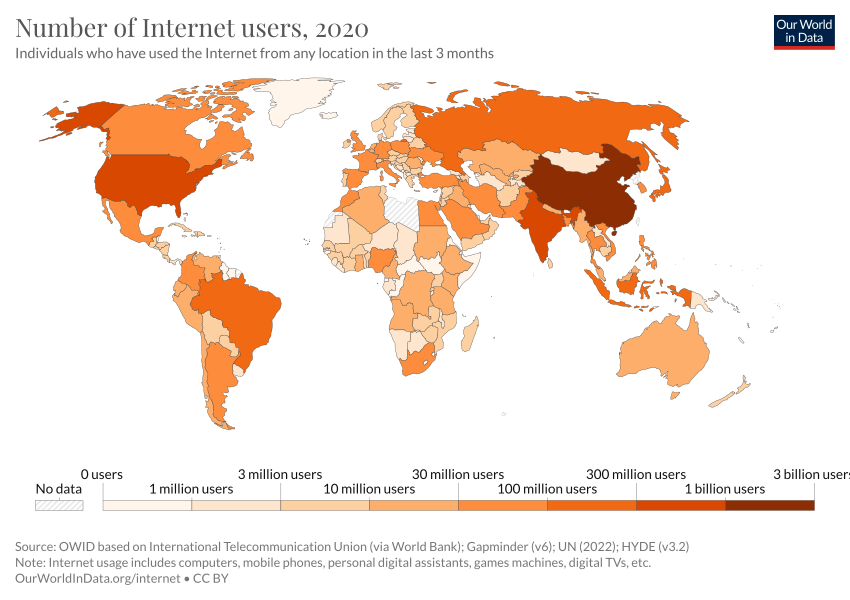
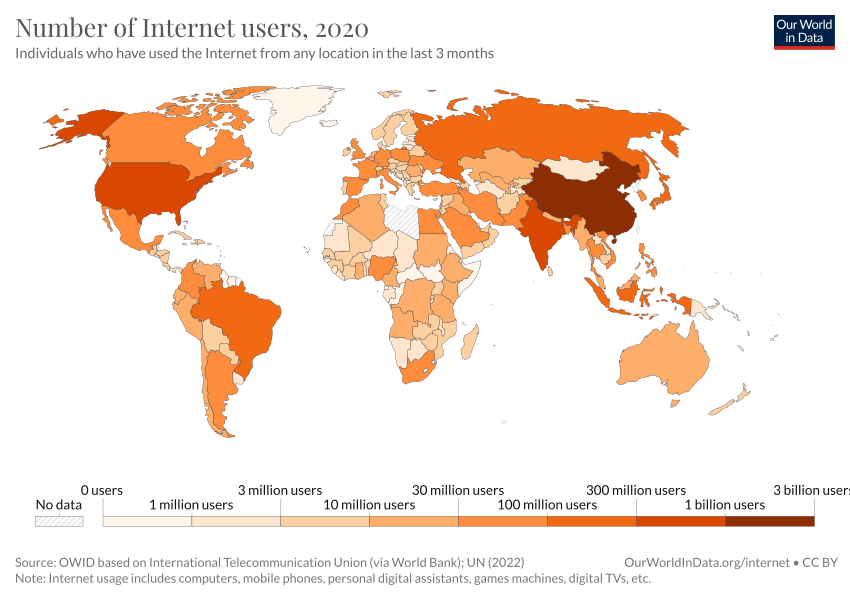
Deploy 2022-10-03T17:13:36.624Z Updating chart number-of-internet-users-by-country

diff --git a/co2-emissions.html b/co2-emissions.html
@@ -1,4 +1,4 @@
-<!doctype html><html><head><meta name="viewport" content="width=device-width, initial-scale=1"/><title>CO2 emissions - Our World in Data</title><meta name="description" content="How much CO2 does the world emit? Which countries emit the most?"/><link rel="canonical" href="https://ourworldindata.org/co2-emissions"/><link rel="alternate" type="application/atom+xml" href="/atom.xml"/><link rel="apple-touch-icon" sizes="180x180" href="/apple-touch-icon.png"/><meta property="fb:app_id" content="1149943818390250"/><meta property="og:url" content="https://ourworldindata.org/co2-emissions"/><meta property="og:title" content="CO2 emissions"/><meta property="og:description" content="How much CO2 does the world emit? Which countries emit the most?"/><meta property="og:image" content="https://ourworldindata.org/uploads/2022/03/Screenshot-2022-03-04-at-16.51.31-768x480.png"/><meta property="og:site_name" content="Our World in Data"/><meta name="twitter:card" content="summary_large_image"/><meta name="twitter:site" content="@OurWorldInData"/><meta name="twitter:creator" content="@OurWorldInData"/><meta name="twitter:title" content="CO2 emissions"/><meta name="twitter:description" content="How much CO2 does the world emit? Which countries emit the most?"/><meta name="twitter:image" content="https://ourworldindata.org/uploads/2022/03/Screenshot-2022-03-04-at-16.51.31-768x480.png"/><link href="https://fonts.googleapis.com/css?family=Lato:300,400,400i,700,700i|Playfair+Display:400,700&amp;display=swap" rel="stylesheet"/><link rel="stylesheet" href="https://ourworldindata.org/assets/commons.css"/><link rel="stylesheet" href="https://ourworldindata.org/assets/owid.css"/><meta name="citation_title" content="CO₂ and Greenhouse Gas Emissions"/><meta name="citation_fulltext_html_url" content="https://ourworldindata.org/co2-and-other-greenhouse-gas-emissions"/><meta name="citation_fulltext_world_readable" content=""/><meta name="citation_publication_date" content="2020/05/11"/><meta name="citation_journal_title" content="Our World in Data"/><meta name="citation_journal_abbrev" content="Our World in Data"/><meta name="citation_author" content="Hannah Ritchie"/><meta name="citation_author" content="Max Roser"/><meta name="citation_author" content="Pablo Rosado"/></head><body class=""><header class="site-header"><div class="wrapper site-navigation-bar"><div class="site-logo"><a href="/">Our World<br/> in Data</a></div><nav class="site-navigation"><div class="topics-button-wrapper"><a href="/#entries" class="topics-button"><div class="label">Articles <br/><strong>by topic</strong></div><div class="icon"><svg width="12" height="6"><path d="M0,0 L12,0 L6,6 Z" fill="currentColor"></path></svg></div></a></div><div><div class="site-primary-navigation"><form class="HeaderSearch" action="/search" method="GET"><input type="search" name="q" placeholder="Search..."/><div class="icon"><svg aria-hidden="true" focusable="false" data-prefix="fas" data-icon="magnifying-glass" class="svg-inline--fa fa-magnifying-glass " role="img" xmlns="http://www.w3.org/2000/svg" viewBox="0 0 512 512"><path fill="currentColor" d="M416 208c0 45.9-14.9 88.3-40 122.7L502.6 457.4c12.5 12.5 12.5 32.8 0 45.3s-32.8 12.5-45.3 0L330.7 376c-34.4 25.2-76.8 40-122.7 40C93.1 416 0 322.9 0 208S93.1 0 208 0S416 93.1 416 208zM208 352c79.5 0 144-64.5 144-144s-64.5-144-144-144S64 128.5 64 208s64.5 144 144 144z"></path></svg></div></form><ul class="site-primary-links"><li><a href="/blog" data-track-note="header-navigation">Latest</a></li><li><a href="/about" data-track-note="header-navigation">About</a></li><li><a href="/donate" data-track-note="header-navigation">Donate</a></li></ul></div><div class="site-secondary-navigation"><ul class="site-secondary-links"><li><a href="/charts" data-track-note="header-navigation">All charts</a></li><li><a href="https://sdg-tracker.org" data-track-note="header-navigation">Sustainable Development Goals Tracker</a></li></ul></div></div></nav><div class="header-logos-wrapper"><a href="https://www.oxfordmartin.ox.ac.uk/global-development" class="oxford-logo"><img src="https://ourworldindata.org/oms-logo.svg" alt="Oxford Martin School logo"/></a><a href="https://global-change-data-lab.org/" class="gcdl-logo"><img src="https://ourworldindata.org/gcdl-logo.svg" alt="Global Change Data Lab logo"/></a></div><div class="mobile-site-navigation"><button data-track-note="mobile-search-button"><svg aria-hidden="true" focusable="false" data-prefix="fas" data-icon="magnifying-glass" class="svg-inline--fa fa-magnifying-glass " role="img" xmlns="http://www.w3.org/2000/svg" viewBox="0 0 512 512"><path fill="currentColor" d="M416 208c0 45.9-14.9 88.3-40 122.7L502.6 457.4c12.5 12.5 12.5 32.8 0 45.3s-32.8 12.5-45.3 0L330.7 376c-34.4 25.2-76.8 40-122.7 40C93.1 416 0 322.9 0 208S93.1 0 208 0S416 93.1 416 208zM208 352c79.5 0 144-64.5 144-144s-64.5-144-144-144S64 128.5 64 208s64.5 144 144 144z"></path></svg></button><button data-track-note="mobile-newsletter-button"><svg aria-hidden="true" focusable="false" data-prefix="fas" data-icon="envelope-open-text" class="svg-inline--fa fa-envelope-open-text " role="img" xmlns="http://www.w3.org/2000/svg" viewBox="0 0 512 512"><path fill="currentColor" d="M215.4 96H144 107.8 96v8.8V144v40.4 89L.2 202.5c1.6-18.1 10.9-34.9 25.7-45.8L48 140.3V96c0-26.5 21.5-48 48-48h76.6l49.9-36.9C232.2 3.9 243.9 0 256 0s23.8 3.9 33.5 11L339.4 48H416c26.5 0 48 21.5 48 48v44.3l22.1 16.4c14.8 10.9 24.1 27.7 25.7 45.8L416 273.4v-89V144 104.8 96H404.2 368 296.6 215.4zM0 448V242.1L217.6 403.3c11.1 8.2 24.6 12.7 38.4 12.7s27.3-4.4 38.4-12.7L512 242.1V448v0c0 35.3-28.7 64-64 64H64c-35.3 0-64-28.7-64-64v0zM176 160H336c8.8 0 16 7.2 16 16s-7.2 16-16 16H176c-8.8 0-16-7.2-16-16s7.2-16 16-16zm0 64H336c8.8 0 16 7.2 16 16s-7.2 16-16 16H176c-8.8 0-16-7.2-16-16s7.2-16 16-16z"></path></svg></button><button data-track-note="mobile-hamburger-button"><svg aria-hidden="true" focusable="false" data-prefix="fas" data-icon="bars" class="svg-inline--fa fa-bars " role="img" xmlns="http://www.w3.org/2000/svg" viewBox="0 0 448 512"><path fill="currentColor" d="M0 96C0 78.3 14.3 64 32 64H416c17.7 0 32 14.3 32 32s-14.3 32-32 32H32C14.3 128 0 113.7 0 96zM0 256c0-17.7 14.3-32 32-32H416c17.7 0 32 14.3 32 32s-14.3 32-32 32H32c-17.7 0-32-14.3-32-32zM448 416c0 17.7-14.3 32-32 32H32c-17.7 0-32-14.3-32-32s14.3-32 32-32H416c17.7 0 32 14.3 32 32z"></path></svg></button></div></div></header><div class="alert-banner"><div class="content"><div class="text"><strong>COVID-19 vaccinations, cases, excess mortality, and much more</strong></div><a href="/coronavirus#explore-the-global-situation" data-track-note="covid-banner-click">Explore our COVID-19 data</a></div></div><main><article class="page with-sidebar large-banner"><div class="offset-header"><header class="article-header"><div class="article-titles"><h1 class="entry-title">CO2 emissions</h1><div class="breadcrumb"><a href="/">Home</a><span class="separator"><svg aria-hidden="true" focusable="false" data-prefix="fas" data-icon="angle-right" class="svg-inline--fa fa-angle-right " role="img" xmlns="http://www.w3.org/2000/svg" viewBox="0 0 320 512"><path fill="currentColor" d="M278.6 233.4c12.5 12.5 12.5 32.8 0 45.3l-160 160c-12.5 12.5-32.8 12.5-45.3 0s-12.5-32.8 0-45.3L210.7 256 73.4 118.6c-12.5-12.5-12.5-32.8 0-45.3s32.8-12.5 45.3 0l160 160z"></path></svg></span><a data-track-note="breadcrumb" href="/co2-and-other-greenhouse-gas-emissions">CO₂ and GHG Emissions</a><span class="separator"><svg aria-hidden="true" focusable="false" data-prefix="fas" data-icon="angle-right" class="svg-inline--fa fa-angle-right " role="img" xmlns="http://www.w3.org/2000/svg" viewBox="0 0 320 512"><path fill="currentColor" d="M278.6 233.4c12.5 12.5 12.5 32.8 0 45.3l-160 160c-12.5 12.5-32.8 12.5-45.3 0s-12.5-32.8 0-45.3L210.7 256 73.4 118.6c-12.5-12.5-12.5-32.8 0-45.3s32.8-12.5 45.3 0l160 160z"></path></svg></span><span>CO₂ emissions</span></div></div><div class="authors-byline"><a href="/team">by Hannah Ritchie and Max Roser</a></div><div class="tools"><a href="#licence"><svg aria-hidden="true" focusable="false" data-prefix="fab" data-icon="creative-commons" class="svg-inline--fa fa-creative-commons " role="img" xmlns="http://www.w3.org/2000/svg" viewBox="0 0 496 512"><path fill="currentColor" d="M245.83 214.87l-33.22 17.28c-9.43-19.58-25.24-19.93-27.46-19.93-22.13 0-33.22 14.61-33.22 43.84 0 23.57 9.21 43.84 33.22 43.84 14.47 0 24.65-7.09 30.57-21.26l30.55 15.5c-6.17 11.51-25.69 38.98-65.1 38.98-22.6 0-73.96-10.32-73.96-77.05 0-58.69 43-77.06 72.63-77.06 30.72-.01 52.7 11.95 65.99 35.86zm143.05 0l-32.78 17.28c-9.5-19.77-25.72-19.93-27.9-19.93-22.14 0-33.22 14.61-33.22 43.84 0 23.55 9.23 43.84 33.22 43.84 14.45 0 24.65-7.09 30.54-21.26l31 15.5c-2.1 3.75-21.39 38.98-65.09 38.98-22.69 0-73.96-9.87-73.96-77.05 0-58.67 42.97-77.06 72.63-77.06 30.71-.01 52.58 11.95 65.56 35.86zM247.56 8.05C104.74 8.05 0 123.11 0 256.05c0 138.49 113.6 248 247.56 248 129.93 0 248.44-100.87 248.44-248 0-137.87-106.62-248-248.44-248zm.87 450.81c-112.54 0-203.7-93.04-203.7-202.81 0-105.42 85.43-203.27 203.72-203.27 112.53 0 202.82 89.46 202.82 203.26-.01 121.69-99.68 202.82-202.84 202.82z"></path></svg>Reuse our work freely</a><a href="#citation"><svg aria-hidden="true" focusable="false" data-prefix="fas" data-icon="book" class="svg-inline--fa fa-book " role="img" xmlns="http://www.w3.org/2000/svg" viewBox="0 0 448 512"><path fill="currentColor" d="M96 0C43 0 0 43 0 96V416c0 53 43 96 96 96H384h32c17.7 0 32-14.3 32-32s-14.3-32-32-32V384c17.7 0 32-14.3 32-32V32c0-17.7-14.3-32-32-32H384 96zm0 384H352v64H96c-17.7 0-32-14.3-32-32s14.3-32 32-32zm32-240c0-8.8 7.2-16 16-16H336c8.8 0 16 7.2 16 16s-7.2 16-16 16H144c-8.8 0-16-7.2-16-16zm16 48H336c8.8 0 16 7.2 16 16s-7.2 16-16 16H144c-8.8 0-16-7.2-16-16s7.2-16 16-16z"></path></svg>Cite this research</a></div></header></div><div class="offset-subnavigation"><div class="site-subnavigation"><div class="site-subnavigation-scroll"><ul class="site-subnavigation-links"><li class="highlight"><a href="/co2-and-other-greenhouse-gas-emissions" data-track-note="co2-subnav-co2-and-ghg-emissions">CO₂ and GHG Emissions<svg aria-hidden="true" focusable="false" data-prefix="fas" data-icon="chevron-left" class="svg-inline--fa fa-chevron-left " role="img" xmlns="http://www.w3.org/2000/svg" viewBox="0 0 384 512"><path fill="currentColor" d="M41.4 233.4c-12.5 12.5-12.5 32.8 0 45.3l192 192c12.5 12.5 32.8 12.5 45.3 0s12.5-32.8 0-45.3L109.3 256 278.6 86.6c12.5-12.5 12.5-32.8 0-45.3s-32.8-12.5-45.3 0l-192 192z"></path></svg></a></li><li class=""><a href="/co2-and-other-greenhouse-gas-emissions#co2-and-greenhouse-gas-emissions-country-profiles" data-track-note="co2-subnav-by-country">By country</a></li><li class=""><a href="/explorers/co2" data-track-note="co2-subnav-co2-data-explorer">Data explorer</a></li><li class="current"><a href="/co2-emissions" data-track-note="co2-subnav-co2-emissions">CO₂ emissions</a></li><li class=""><a href="/emissions-by-fuel" data-track-note="co2-subnav-by-fuel">CO₂ by fuel</a></li><li class=""><a href="/greenhouse-gas-emissions" data-track-note="co2-subnav-ghg-emissions">GHG emissions</a></li><li class=""><a href="/emissions-by-sector" data-track-note="co2-subnav-by-sector">By sector</a></li><li class=""><a href="/atmospheric-concentrations" data-track-note="co2-subnav-atm-concentrations">Atmospheric concentrations</a></li><li class=""><a href="/explorers/climate-change" data-track-note="co2-subnav-climate-impacts">Climate impacts</a></li></ul></div></div></div><div class="content-wrapper"><div class="toc-wrapper"><aside class="entry-sidebar"><nav class="entry-toc"><ul><li><a href="#" data-track-note="toc-header">CO2 emissions</a></li><li class="section"><a href="#global-co2-emissions-from-fossil-fuels" data-track-note="toc-link">Global CO2 emissions from fossil fuels</a></li><li class="subsection"><a href="#global-co2-emissions-from-fossil-fuels-global-co2-emissions-from-fossil-fuels" data-track-note="toc-link">Global CO2 emissions from fossil fuels</a></li><li class="subsection"><a href="#global-co2-emissions-from-fossil-fuels-and-land-use-change" data-track-note="toc-link">Global CO2 emissions from fossil fuels and land use change</a></li><li class="subsection"><a href="#co2-emissions-by-region" data-track-note="toc-link">CO2 emissions by region</a></li><li class="section"><a href="#per-capita-co2-emissions" data-track-note="toc-link">Per capita CO2 emissions</a></li><li class="section"><a href="#annual-co2-emissions" data-track-note="toc-link">Annual CO2 emissions</a></li><li class="section"><a href="#annual-change-in-co2-emissions" data-track-note="toc-link">Annual change in CO2 emissions</a></li><li class="section"><a href="#cumulative-co2-emissions" data-track-note="toc-link">Cumulative CO2 emissions</a></li><li class="section"><a href="#consumption-based-trade-adjusted-emissions" data-track-note="toc-link">Consumption-based (trade-adjusted) emissions</a></li><li class="section"><a href="#decoupling-co2-emissions-from-economic-growth" data-track-note="toc-link">Decoupling CO₂ emissions from economic growth</a></li><li class="section"><a href="#global-inequalities-in-co2-emissions" data-track-note="toc-link">Global inequalities in CO2 emissions</a></li><li class="subsection"><a href="#global-inequalities-by-production" data-track-note="toc-link">Global inequalities by production</a></li><li class="subsection"><a href="#global-inequalities-by-consumption" data-track-note="toc-link">Global inequalities by consumption</a></li><li class="section"><a href="#how-do-we-measure-or-estimate-co2-emissions" data-track-note="toc-link">How do we measure or estimate CO2 emissions?</a></li><li class="section"><a href="#endnotes" data-track-note="toc-link">Endnotes</a></li><li class="section"><a href="#licence" data-track-note="toc-link">Licence</a></li><li class="section"><a href="#citation" data-track-note="toc-link">Citation</a></li></ul></nav><div class="toggle-toc"><button data-track-note="page-toggle-toc" aria-label="Open table of contents"><svg aria-hidden="true" focusable="false" data-prefix="fas" data-icon="bars" class="svg-inline--fa fa-bars " role="img" xmlns="http://www.w3.org/2000/svg" viewBox="0 0 448 512"><path fill="currentColor" d="M0 96C0 78.3 14.3 64 32 64H416c17.7 0 32 14.3 32 32s-14.3 32-32 32H32C14.3 128 0 113.7 0 96zM0 256c0-17.7 14.3-32 32-32H416c17.7 0 32 14.3 32 32s-14.3 32-32 32H32c-17.7 0-32-14.3-32-32zM448 416c0 17.7-14.3 32-32 32H32c-17.7 0-32-14.3-32-32s14.3-32 32-32H416c17.7 0 32 14.3 32 32z"></path></svg><span class="label">Contents</span></button></div></aside></div><div class="offset-content"><div class="content-and-footnotes"><div class="article-content"><section><div class="wp-block-columns is-style-sticky-right"><div class="wp-block-column"><p>You can&nbsp;<strong><a href="https://github.com/owid/co2-data">download</a></strong>&nbsp;our complete <em>Our World in Data</em> CO<sub>2</sub> and Greenhouse Gas Emissions database.</p><hr class="wp-block-separator"><p>Carbon dioxide emissions are the primary driver of global climate change. It’s widely recognised that to avoid the worst impacts of climate change, the world needs to urgently reduce emissions. But, how this responsibility is shared between regions, countries, and individuals has been an endless point of contention in international discussions. </p><p>This debate arises from the various ways in which emissions are compared: as annual emissions by country; emissions per person; historical contributions; and whether they adjust for traded goods and services. These metrics can tell very different stories. </p><p>We teamed up with the YouTube channel, <em>Kurzgesagt</em>, to produce a video which explored these different metrics in detail: <a href="https://www.youtube.com/watch?v=ipVxxxqwBQw">‘Who is responsible for climate change? – Who needs to fix it?’</a>. All of the data and research featured in this video is contained in this article: below we look in detail at the many ways emissions are broken down.</p><div class="wp-container-633b1366e417e wp-block-group">    <div class="block-wrapper"><div class="wp-block-owid-prominent-link with-image" data-no-lightbox="true" data-style="is-style-thin" data-title="&nbsp;‘Who is responsible for climate change? – Who needs to fix it?’"><a href="https://www.youtube.com/watch?v=ipVxxxqwBQw"><figure><img width="768" height="433" src="https://ourworldindata.org/uploads/2020/06/CO2-Kurzgesagt-768x433.png" class="attachment-medium_large size-medium_large" alt="Co2 kurzgesagt" loading="lazy" srcset="https://ourworldindata.org/uploads/2020/06/CO2-Kurzgesagt-768x433.png 768w, https://ourworldindata.org/uploads/2020/06/CO2-Kurzgesagt-400x225.png 400w, https://ourworldindata.org/uploads/2020/06/CO2-Kurzgesagt-800x451.png 800w, https://ourworldindata.org/uploads/2020/06/CO2-Kurzgesagt-150x84.png 150w, https://ourworldindata.org/uploads/2020/06/CO2-Kurzgesagt.png 1422w" sizes="(max-width: 768px) 100vw, 768px" data-high-res-src="https://ourworldindata.org/uploads/2020/06/CO2-Kurzgesagt.png"></figure><div class="content-wrapper"><div class="content">
+<!doctype html><html><head><meta name="viewport" content="width=device-width, initial-scale=1"/><title>CO2 emissions - Our World in Data</title><meta name="description" content="How much CO2 does the world emit? Which countries emit the most?"/><link rel="canonical" href="https://ourworldindata.org/co2-emissions"/><link rel="alternate" type="application/atom+xml" href="/atom.xml"/><link rel="apple-touch-icon" sizes="180x180" href="/apple-touch-icon.png"/><meta property="fb:app_id" content="1149943818390250"/><meta property="og:url" content="https://ourworldindata.org/co2-emissions"/><meta property="og:title" content="CO2 emissions"/><meta property="og:description" content="How much CO2 does the world emit? Which countries emit the most?"/><meta property="og:image" content="https://ourworldindata.org/uploads/2022/03/Screenshot-2022-03-04-at-16.51.31-768x480.png"/><meta property="og:site_name" content="Our World in Data"/><meta name="twitter:card" content="summary_large_image"/><meta name="twitter:site" content="@OurWorldInData"/><meta name="twitter:creator" content="@OurWorldInData"/><meta name="twitter:title" content="CO2 emissions"/><meta name="twitter:description" content="How much CO2 does the world emit? Which countries emit the most?"/><meta name="twitter:image" content="https://ourworldindata.org/uploads/2022/03/Screenshot-2022-03-04-at-16.51.31-768x480.png"/><link href="https://fonts.googleapis.com/css?family=Lato:300,400,400i,700,700i|Playfair+Display:400,700&amp;display=swap" rel="stylesheet"/><link rel="stylesheet" href="https://ourworldindata.org/assets/commons.css"/><link rel="stylesheet" href="https://ourworldindata.org/assets/owid.css"/><meta name="citation_title" content="CO₂ and Greenhouse Gas Emissions"/><meta name="citation_fulltext_html_url" content="https://ourworldindata.org/co2-and-other-greenhouse-gas-emissions"/><meta name="citation_fulltext_world_readable" content=""/><meta name="citation_publication_date" content="2020/05/11"/><meta name="citation_journal_title" content="Our World in Data"/><meta name="citation_journal_abbrev" content="Our World in Data"/><meta name="citation_author" content="Hannah Ritchie"/><meta name="citation_author" content="Max Roser"/><meta name="citation_author" content="Pablo Rosado"/></head><body class=""><header class="site-header"><div class="wrapper site-navigation-bar"><div class="site-logo"><a href="/">Our World<br/> in Data</a></div><nav class="site-navigation"><div class="topics-button-wrapper"><a href="/#entries" class="topics-button"><div class="label">Articles <br/><strong>by topic</strong></div><div class="icon"><svg width="12" height="6"><path d="M0,0 L12,0 L6,6 Z" fill="currentColor"></path></svg></div></a></div><div><div class="site-primary-navigation"><form class="HeaderSearch" action="/search" method="GET"><input type="search" name="q" placeholder="Search..."/><div class="icon"><svg aria-hidden="true" focusable="false" data-prefix="fas" data-icon="magnifying-glass" class="svg-inline--fa fa-magnifying-glass " role="img" xmlns="http://www.w3.org/2000/svg" viewBox="0 0 512 512"><path fill="currentColor" d="M416 208c0 45.9-14.9 88.3-40 122.7L502.6 457.4c12.5 12.5 12.5 32.8 0 45.3s-32.8 12.5-45.3 0L330.7 376c-34.4 25.2-76.8 40-122.7 40C93.1 416 0 322.9 0 208S93.1 0 208 0S416 93.1 416 208zM208 352c79.5 0 144-64.5 144-144s-64.5-144-144-144S64 128.5 64 208s64.5 144 144 144z"></path></svg></div></form><ul class="site-primary-links"><li><a href="/blog" data-track-note="header-navigation">Latest</a></li><li><a href="/about" data-track-note="header-navigation">About</a></li><li><a href="/donate" data-track-note="header-navigation">Donate</a></li></ul></div><div class="site-secondary-navigation"><ul class="site-secondary-links"><li><a href="/charts" data-track-note="header-navigation">All charts</a></li><li><a href="https://sdg-tracker.org" data-track-note="header-navigation">Sustainable Development Goals Tracker</a></li></ul></div></div></nav><div class="header-logos-wrapper"><a href="https://www.oxfordmartin.ox.ac.uk/global-development" class="oxford-logo"><img src="https://ourworldindata.org/oms-logo.svg" alt="Oxford Martin School logo"/></a><a href="https://global-change-data-lab.org/" class="gcdl-logo"><img src="https://ourworldindata.org/gcdl-logo.svg" alt="Global Change Data Lab logo"/></a></div><div class="mobile-site-navigation"><button data-track-note="mobile-search-button"><svg aria-hidden="true" focusable="false" data-prefix="fas" data-icon="magnifying-glass" class="svg-inline--fa fa-magnifying-glass " role="img" xmlns="http://www.w3.org/2000/svg" viewBox="0 0 512 512"><path fill="currentColor" d="M416 208c0 45.9-14.9 88.3-40 122.7L502.6 457.4c12.5 12.5 12.5 32.8 0 45.3s-32.8 12.5-45.3 0L330.7 376c-34.4 25.2-76.8 40-122.7 40C93.1 416 0 322.9 0 208S93.1 0 208 0S416 93.1 416 208zM208 352c79.5 0 144-64.5 144-144s-64.5-144-144-144S64 128.5 64 208s64.5 144 144 144z"></path></svg></button><button data-track-note="mobile-newsletter-button"><svg aria-hidden="true" focusable="false" data-prefix="fas" data-icon="envelope-open-text" class="svg-inline--fa fa-envelope-open-text " role="img" xmlns="http://www.w3.org/2000/svg" viewBox="0 0 512 512"><path fill="currentColor" d="M215.4 96H144 107.8 96v8.8V144v40.4 89L.2 202.5c1.6-18.1 10.9-34.9 25.7-45.8L48 140.3V96c0-26.5 21.5-48 48-48h76.6l49.9-36.9C232.2 3.9 243.9 0 256 0s23.8 3.9 33.5 11L339.4 48H416c26.5 0 48 21.5 48 48v44.3l22.1 16.4c14.8 10.9 24.1 27.7 25.7 45.8L416 273.4v-89V144 104.8 96H404.2 368 296.6 215.4zM0 448V242.1L217.6 403.3c11.1 8.2 24.6 12.7 38.4 12.7s27.3-4.4 38.4-12.7L512 242.1V448v0c0 35.3-28.7 64-64 64H64c-35.3 0-64-28.7-64-64v0zM176 160H336c8.8 0 16 7.2 16 16s-7.2 16-16 16H176c-8.8 0-16-7.2-16-16s7.2-16 16-16zm0 64H336c8.8 0 16 7.2 16 16s-7.2 16-16 16H176c-8.8 0-16-7.2-16-16s7.2-16 16-16z"></path></svg></button><button data-track-note="mobile-hamburger-button"><svg aria-hidden="true" focusable="false" data-prefix="fas" data-icon="bars" class="svg-inline--fa fa-bars " role="img" xmlns="http://www.w3.org/2000/svg" viewBox="0 0 448 512"><path fill="currentColor" d="M0 96C0 78.3 14.3 64 32 64H416c17.7 0 32 14.3 32 32s-14.3 32-32 32H32C14.3 128 0 113.7 0 96zM0 256c0-17.7 14.3-32 32-32H416c17.7 0 32 14.3 32 32s-14.3 32-32 32H32c-17.7 0-32-14.3-32-32zM448 416c0 17.7-14.3 32-32 32H32c-17.7 0-32-14.3-32-32s14.3-32 32-32H416c17.7 0 32 14.3 32 32z"></path></svg></button></div></div></header><div class="alert-banner"><div class="content"><div class="text"><strong>COVID-19 vaccinations, cases, excess mortality, and much more</strong></div><a href="/coronavirus#explore-the-global-situation" data-track-note="covid-banner-click">Explore our COVID-19 data</a></div></div><main><article class="page with-sidebar large-banner"><div class="offset-header"><header class="article-header"><div class="article-titles"><h1 class="entry-title">CO2 emissions</h1><div class="breadcrumb"><a href="/">Home</a><span class="separator"><svg aria-hidden="true" focusable="false" data-prefix="fas" data-icon="angle-right" class="svg-inline--fa fa-angle-right " role="img" xmlns="http://www.w3.org/2000/svg" viewBox="0 0 320 512"><path fill="currentColor" d="M278.6 233.4c12.5 12.5 12.5 32.8 0 45.3l-160 160c-12.5 12.5-32.8 12.5-45.3 0s-12.5-32.8 0-45.3L210.7 256 73.4 118.6c-12.5-12.5-12.5-32.8 0-45.3s32.8-12.5 45.3 0l160 160z"></path></svg></span><a data-track-note="breadcrumb" href="/co2-and-other-greenhouse-gas-emissions">CO₂ and GHG Emissions</a><span class="separator"><svg aria-hidden="true" focusable="false" data-prefix="fas" data-icon="angle-right" class="svg-inline--fa fa-angle-right " role="img" xmlns="http://www.w3.org/2000/svg" viewBox="0 0 320 512"><path fill="currentColor" d="M278.6 233.4c12.5 12.5 12.5 32.8 0 45.3l-160 160c-12.5 12.5-32.8 12.5-45.3 0s-12.5-32.8 0-45.3L210.7 256 73.4 118.6c-12.5-12.5-12.5-32.8 0-45.3s32.8-12.5 45.3 0l160 160z"></path></svg></span><span>CO₂ emissions</span></div></div><div class="authors-byline"><a href="/team">by Hannah Ritchie and Max Roser</a></div><div class="tools"><a href="#licence"><svg aria-hidden="true" focusable="false" data-prefix="fab" data-icon="creative-commons" class="svg-inline--fa fa-creative-commons " role="img" xmlns="http://www.w3.org/2000/svg" viewBox="0 0 496 512"><path fill="currentColor" d="M245.83 214.87l-33.22 17.28c-9.43-19.58-25.24-19.93-27.46-19.93-22.13 0-33.22 14.61-33.22 43.84 0 23.57 9.21 43.84 33.22 43.84 14.47 0 24.65-7.09 30.57-21.26l30.55 15.5c-6.17 11.51-25.69 38.98-65.1 38.98-22.6 0-73.96-10.32-73.96-77.05 0-58.69 43-77.06 72.63-77.06 30.72-.01 52.7 11.95 65.99 35.86zm143.05 0l-32.78 17.28c-9.5-19.77-25.72-19.93-27.9-19.93-22.14 0-33.22 14.61-33.22 43.84 0 23.55 9.23 43.84 33.22 43.84 14.45 0 24.65-7.09 30.54-21.26l31 15.5c-2.1 3.75-21.39 38.98-65.09 38.98-22.69 0-73.96-9.87-73.96-77.05 0-58.67 42.97-77.06 72.63-77.06 30.71-.01 52.58 11.95 65.56 35.86zM247.56 8.05C104.74 8.05 0 123.11 0 256.05c0 138.49 113.6 248 247.56 248 129.93 0 248.44-100.87 248.44-248 0-137.87-106.62-248-248.44-248zm.87 450.81c-112.54 0-203.7-93.04-203.7-202.81 0-105.42 85.43-203.27 203.72-203.27 112.53 0 202.82 89.46 202.82 203.26-.01 121.69-99.68 202.82-202.84 202.82z"></path></svg>Reuse our work freely</a><a href="#citation"><svg aria-hidden="true" focusable="false" data-prefix="fas" data-icon="book" class="svg-inline--fa fa-book " role="img" xmlns="http://www.w3.org/2000/svg" viewBox="0 0 448 512"><path fill="currentColor" d="M96 0C43 0 0 43 0 96V416c0 53 43 96 96 96H384h32c17.7 0 32-14.3 32-32s-14.3-32-32-32V384c17.7 0 32-14.3 32-32V32c0-17.7-14.3-32-32-32H384 96zm0 384H352v64H96c-17.7 0-32-14.3-32-32s14.3-32 32-32zm32-240c0-8.8 7.2-16 16-16H336c8.8 0 16 7.2 16 16s-7.2 16-16 16H144c-8.8 0-16-7.2-16-16zm16 48H336c8.8 0 16 7.2 16 16s-7.2 16-16 16H144c-8.8 0-16-7.2-16-16s7.2-16 16-16z"></path></svg>Cite this research</a></div></header></div><div class="offset-subnavigation"><div class="site-subnavigation"><div class="site-subnavigation-scroll"><ul class="site-subnavigation-links"><li class="highlight"><a href="/co2-and-other-greenhouse-gas-emissions" data-track-note="co2-subnav-co2-and-ghg-emissions">CO₂ and GHG Emissions<svg aria-hidden="true" focusable="false" data-prefix="fas" data-icon="chevron-left" class="svg-inline--fa fa-chevron-left " role="img" xmlns="http://www.w3.org/2000/svg" viewBox="0 0 384 512"><path fill="currentColor" d="M41.4 233.4c-12.5 12.5-12.5 32.8 0 45.3l192 192c12.5 12.5 32.8 12.5 45.3 0s12.5-32.8 0-45.3L109.3 256 278.6 86.6c12.5-12.5 12.5-32.8 0-45.3s-32.8-12.5-45.3 0l-192 192z"></path></svg></a></li><li class=""><a href="/co2-and-other-greenhouse-gas-emissions#co2-and-greenhouse-gas-emissions-country-profiles" data-track-note="co2-subnav-by-country">By country</a></li><li class=""><a href="/explorers/co2" data-track-note="co2-subnav-co2-data-explorer">Data explorer</a></li><li class="current"><a href="/co2-emissions" data-track-note="co2-subnav-co2-emissions">CO₂ emissions</a></li><li class=""><a href="/emissions-by-fuel" data-track-note="co2-subnav-by-fuel">CO₂ by fuel</a></li><li class=""><a href="/greenhouse-gas-emissions" data-track-note="co2-subnav-ghg-emissions">GHG emissions</a></li><li class=""><a href="/emissions-by-sector" data-track-note="co2-subnav-by-sector">By sector</a></li><li class=""><a href="/atmospheric-concentrations" data-track-note="co2-subnav-atm-concentrations">Atmospheric concentrations</a></li><li class=""><a href="/explorers/climate-change" data-track-note="co2-subnav-climate-impacts">Climate impacts</a></li></ul></div></div></div><div class="content-wrapper"><div class="toc-wrapper"><aside class="entry-sidebar"><nav class="entry-toc"><ul><li><a href="#" data-track-note="toc-header">CO2 emissions</a></li><li class="section"><a href="#global-co2-emissions-from-fossil-fuels" data-track-note="toc-link">Global CO2 emissions from fossil fuels</a></li><li class="subsection"><a href="#global-co2-emissions-from-fossil-fuels-global-co2-emissions-from-fossil-fuels" data-track-note="toc-link">Global CO2 emissions from fossil fuels</a></li><li class="subsection"><a href="#global-co2-emissions-from-fossil-fuels-and-land-use-change" data-track-note="toc-link">Global CO2 emissions from fossil fuels and land use change</a></li><li class="subsection"><a href="#co2-emissions-by-region" data-track-note="toc-link">CO2 emissions by region</a></li><li class="section"><a href="#per-capita-co2-emissions" data-track-note="toc-link">Per capita CO2 emissions</a></li><li class="section"><a href="#annual-co2-emissions" data-track-note="toc-link">Annual CO2 emissions</a></li><li class="section"><a href="#annual-change-in-co2-emissions" data-track-note="toc-link">Annual change in CO2 emissions</a></li><li class="section"><a href="#cumulative-co2-emissions" data-track-note="toc-link">Cumulative CO2 emissions</a></li><li class="section"><a href="#consumption-based-trade-adjusted-emissions" data-track-note="toc-link">Consumption-based (trade-adjusted) emissions</a></li><li class="section"><a href="#decoupling-co2-emissions-from-economic-growth" data-track-note="toc-link">Decoupling CO₂ emissions from economic growth</a></li><li class="section"><a href="#global-inequalities-in-co2-emissions" data-track-note="toc-link">Global inequalities in CO2 emissions</a></li><li class="subsection"><a href="#global-inequalities-by-production" data-track-note="toc-link">Global inequalities by production</a></li><li class="subsection"><a href="#global-inequalities-by-consumption" data-track-note="toc-link">Global inequalities by consumption</a></li><li class="section"><a href="#how-do-we-measure-or-estimate-co2-emissions" data-track-note="toc-link">How do we measure or estimate CO2 emissions?</a></li><li class="section"><a href="#endnotes" data-track-note="toc-link">Endnotes</a></li><li class="section"><a href="#licence" data-track-note="toc-link">Licence</a></li><li class="section"><a href="#citation" data-track-note="toc-link">Citation</a></li></ul></nav><div class="toggle-toc"><button data-track-note="page-toggle-toc" aria-label="Open table of contents"><svg aria-hidden="true" focusable="false" data-prefix="fas" data-icon="bars" class="svg-inline--fa fa-bars " role="img" xmlns="http://www.w3.org/2000/svg" viewBox="0 0 448 512"><path fill="currentColor" d="M0 96C0 78.3 14.3 64 32 64H416c17.7 0 32 14.3 32 32s-14.3 32-32 32H32C14.3 128 0 113.7 0 96zM0 256c0-17.7 14.3-32 32-32H416c17.7 0 32 14.3 32 32s-14.3 32-32 32H32c-17.7 0-32-14.3-32-32zM448 416c0 17.7-14.3 32-32 32H32c-17.7 0-32-14.3-32-32s14.3-32 32-32H416c17.7 0 32 14.3 32 32z"></path></svg><span class="label">Contents</span></button></div></aside></div><div class="offset-content"><div class="content-and-footnotes"><div class="article-content"><section><div class="wp-block-columns is-style-sticky-right"><div class="wp-block-column"><p>You can&nbsp;<strong><a href="https://github.com/owid/co2-data">download</a></strong>&nbsp;our complete <em>Our World in Data</em> CO<sub>2</sub> and Greenhouse Gas Emissions database.</p><hr class="wp-block-separator"><p>Carbon dioxide emissions are the primary driver of global climate change. It’s widely recognised that to avoid the worst impacts of climate change, the world needs to urgently reduce emissions. But, how this responsibility is shared between regions, countries, and individuals has been an endless point of contention in international discussions. </p><p>This debate arises from the various ways in which emissions are compared: as annual emissions by country; emissions per person; historical contributions; and whether they adjust for traded goods and services. These metrics can tell very different stories. </p><p>We teamed up with the YouTube channel, <em>Kurzgesagt</em>, to produce a video which explored these different metrics in detail: <a href="https://www.youtube.com/watch?v=ipVxxxqwBQw">‘Who is responsible for climate change? – Who needs to fix it?’</a>. All of the data and research featured in this video is contained in this article: below we look in detail at the many ways emissions are broken down.</p><div class="wp-container-633b18675e081 wp-block-group">    <div class="block-wrapper"><div class="wp-block-owid-prominent-link with-image" data-no-lightbox="true" data-style="is-style-thin" data-title="&nbsp;‘Who is responsible for climate change? – Who needs to fix it?’"><a href="https://www.youtube.com/watch?v=ipVxxxqwBQw"><figure><img width="768" height="433" src="https://ourworldindata.org/uploads/2020/06/CO2-Kurzgesagt-768x433.png" class="attachment-medium_large size-medium_large" alt="Co2 kurzgesagt" loading="lazy" srcset="https://ourworldindata.org/uploads/2020/06/CO2-Kurzgesagt-768x433.png 768w, https://ourworldindata.org/uploads/2020/06/CO2-Kurzgesagt-400x225.png 400w, https://ourworldindata.org/uploads/2020/06/CO2-Kurzgesagt-800x451.png 800w, https://ourworldindata.org/uploads/2020/06/CO2-Kurzgesagt-150x84.png 150w, https://ourworldindata.org/uploads/2020/06/CO2-Kurzgesagt.png 1422w" sizes="(max-width: 768px) 100vw, 768px" data-high-res-src="https://ourworldindata.org/uploads/2020/06/CO2-Kurzgesagt.png"></figure><div class="content-wrapper"><div class="content">
 
 <p>We teamed up with YouTube channel <em>Kurzgesagt</em> to make a video on comparisons of CO<sub>2</sub> emissions.</p>
 

diff --git a/energy-archive.html b/energy-archive.html
@@ -201,7 +201,7 @@
 
 
 
-<div class="wp-sticky-container"><div data-project="energy" class="wp-block-search-country-profile"></div><h5><strong>Our 12 most visited country profiles</strong></h5><div class="wp-container-633b136538736 wp-block-group"><div class="wp-block-group__inner-container">
+<div class="wp-sticky-container"><div data-project="energy" class="wp-block-search-country-profile"></div><h5><strong>Our 12 most visited country profiles</strong></h5><div class="wp-container-633b18654f46c wp-block-group"><div class="wp-block-group__inner-container">
 <ul class="covid-country-tiles"><li><a href="https://ourworldindata.org/energy/country/united-states?country=~USA">United States</a></li><li><a href="https://ourworldindata.org/energy/country/united-kingdom?country=~GBR">United Kingdom</a></li><li><a href="https://ourworldindata.org/energy/country/china?country=~CHN">China</a></li><li><a href="https://ourworldindata.org/energy/country/india?country=~IND">India</a></li><li><a href="https://ourworldindata.org/energy/country/brazil?country=~BRA">Brazil</a></li><li><a href="https://ourworldindata.org/energy/country/south-africa?country=~ZAF">South Africa</a></li><li><a href="https://ourworldindata.org/energy/country/germany?country=~DEU">Germany</a></li><li><a href="https://ourworldindata.org/energy/country/spain?country=~ESP">Spain</a></li><li><a href="https://ourworldindata.org/energy/country/france?country=~FRA">France</a></li><li><a href="https://ourworldindata.org/energy/country/canada?country=~CAN">Canada</a></li><li><a href="https://ourworldindata.org/energy/country/australia?country=~AUS">Australia</a></li><li><a href="https://ourworldindata.org/energy/country/sweden?country=~SWE">Sweden</a></li></ul>
 </div></div></div></div>
 

diff --git a/co2-and-other-greenhouse-gas-emissions.html b/co2-and-other-greenhouse-gas-emissions.html
@@ -23,7 +23,7 @@
 
 
 
-<div class="wp-sticky-container"><div data-project="co2" class="wp-block-search-country-profile"></div><h5><strong>Our 12 most visited country profiles</strong></h5><div class="wp-container-633b13670954a wp-block-group">
+<div class="wp-sticky-container"><div data-project="co2" class="wp-block-search-country-profile"></div><h5><strong>Our 12 most visited country profiles</strong></h5><div class="wp-container-633b186776675 wp-block-group">
 <ul class="covid-country-tiles"><li><a href="https://ourworldindata.org/co2/country/united-states?country=~USA">United States</a></li><li><a href="https://ourworldindata.org/co2/country/united-kingdom?country=~GBR">United Kingdom</a></li><li><a href="https://ourworldindata.org/co2/country/china?country=~CHN">China</a></li><li><a href="https://ourworldindata.org/co2/country/india?country=~IND">India</a></li><li><a href="https://ourworldindata.org/co2/country/brazil?country=~BRA">Brazil</a></li><li><a href="https://ourworldindata.org/co2/country/south-africa?country=~ZAF">South Africa</a></li><li><a href="https://ourworldindata.org/co2/country/germany?country=~DEU">Germany</a></li><li><a href="https://ourworldindata.org/co2/country/spain?country=~ESP">Spain</a></li><li><a href="https://ourworldindata.org/co2/country/france?country=~FRA">France</a></li><li><a href="https://ourworldindata.org/co2/country/canada?country=~CAN">Canada</a></li><li><a href="https://ourworldindata.org/co2/country/australia?country=~AUS">Australia</a></li><li><a href="https://ourworldindata.org/co2/country/sweden?country=~SWE">Sweden</a></li></ul>
 </div></div></div>
 

diff --git a/internet.html b/internet.html
@@ -135,7 +135,7 @@ How did half the world get online in just one generation? And what are the chall
                 
 <div class="wp-sticky-container"><figure data-grapher-src="https://ourworldindata.org/grapher/number-of-internet-users-by-country" class="grapherPreview">
                     <a href="https://ourworldindata.org/grapher/number-of-internet-users-by-country" target="_blank">
-                        <div><img src="https://ourworldindata.org/exports/number-of-internet-users-by-country_v22_850x600.svg" width="850" height="600" loading="lazy" data-no-lightbox="" alt="Number of internet users by country v22 850x600"></div>
+                        <div><img src="https://ourworldindata.org/exports/number-of-internet-users-by-country_v23_850x600.svg" width="850" height="600" loading="lazy" data-no-lightbox="" alt="Number of internet users by country v23 850x600"></div>
                         <div class="interactionNotice">
                             <span class="icon"><svg aria-hidden="true" focusable="false" data-prefix="fas" data-icon="hand-pointer" class="svg-inline--fa fa-hand-pointer fa-w-14" role="img" xmlns="http://www.w3.org/2000/svg" viewBox="0 0 448 617">
     <path fill="currentColor" d="M448,344.59v96a40.36,40.36,0,0,1-1.06,9.16l-32,136A40,40,0,0,1,376,616.59H168a40,40,0,0,1-32.35-16.47l-128-176a40,40,0,0,1,64.7-47.06L104,420.58v-276a40,40,0,0,1,80,0v200h8v-40a40,40,0,1,1,80,0v40h8v-24a40,40,0,1,1,80,0v24h8a40,40,0,1,1,80,0Zm-256,80h-8v96h8Zm88,0h-8v96h8Zm88,0h-8v96h8Z" transform="translate(0 -0.41)"></path>

diff --git a/how-many-internet-users-does-each-country-have.html b/how-many-internet-users-does-each-country-have.html
@@ -39,7 +39,7 @@
                 
 <div class="wp-sticky-container"><figure data-grapher-src="https://ourworldindata.org/grapher/number-of-internet-users-by-country" class="grapherPreview">
                     <a href="https://ourworldindata.org/grapher/number-of-internet-users-by-country" target="_blank">
-                        <div><img src="https://ourworldindata.org/exports/number-of-internet-users-by-country_v22_850x600.svg" width="850" height="600" loading="lazy" data-no-lightbox="" alt="Number of internet users by country v22 850x600"></div>
+                        <div><img src="https://ourworldindata.org/exports/number-of-internet-users-by-country_v23_850x600.svg" width="850" height="600" loading="lazy" data-no-lightbox="" alt="Number of internet users by country v23 850x600"></div>
                         <div class="interactionNotice">
                             <span class="icon"><svg aria-hidden="true" focusable="false" data-prefix="fas" data-icon="hand-pointer" class="svg-inline--fa fa-hand-pointer fa-w-14" role="img" xmlns="http://www.w3.org/2000/svg" viewBox="0 0 448 617">
     <path fill="currentColor" d="M448,344.59v96a40.36,40.36,0,0,1-1.06,9.16l-32,136A40,40,0,0,1,376,616.59H168a40,40,0,0,1-32.35-16.47l-128-176a40,40,0,0,1,64.7-47.06L104,420.58v-276a40,40,0,0,1,80,0v200h8v-40a40,40,0,1,1,80,0v40h8v-24a40,40,0,1,1,80,0v24h8a40,40,0,1,1,80,0Zm-256,80h-8v96h8Zm88,0h-8v96h8Zm88,0h-8v96h8Z" transform="translate(0 -0.41)"></path>

diff --git a/grapher/number-of-internet-users-by-country.html b/grapher/number-of-internet-users-by-country.html
@@ -254,7 +254,7 @@
     "max": 0,
     "min": 0
   },
-  "version": 22,
+  "version": 23,
   "subtitle": "Individuals who have used the Internet from any location in the last 3 months",
   "hasMapTab": true,
   "originUrl": "https://ourworldindata.org/internet",
@@ -264,7 +264,7 @@
       "variableId": 525845
     }
   ],
-  "sourceDesc": "OWID based on International Telecommunication Union (via World Bank); Gapminder (v6); UN (2022); HYDE (v3.2)",
+  "sourceDesc": "OWID based on International Telecommunication Union (via World Bank); UN (2022)",
   "isPublished": true,
   "selectedEntityIds": [
     13,

diff --git a/democracy.html b/democracy.html
@@ -1862,7 +1862,7 @@ Justifies democracy characteristics</td>
 
 
 
-<div class="wp-container-633b136c06553 wp-block-group">
+<div class="wp-container-633b186d03c02 wp-block-group">
 <ul><li><strong>full democracy</strong>: comprehensive extent of democracy, few weaknesses</li><li><strong>flawed democracy</strong>: some weaknesses in democratic institutions and culture</li><li><strong>hybrid regime</strong>: serious weaknesses in democratic institutions and culture</li><li><strong>authoritarian regime</strong>: few democratic institutions and little democratic culture</li></ul>
 </div>
 </div>

diff --git a/democracies-measurement.html b/democracies-measurement.html
@@ -531,7 +531,7 @@ Justifies democracy characteristics</td>
 
 
 
-<div class="wp-container-633b135eda6d2 wp-block-group">
+<div class="wp-container-633b185e3ef67 wp-block-group">
 <ul><li><strong>full democracy</strong>: comprehensive extent of democracy, few weaknesses</li><li><strong>flawed democracy</strong>: some weaknesses in democratic institutions and culture</li><li><strong>hybrid regime</strong>: serious weaknesses in democratic institutions and culture</li><li><strong>authoritarian regime</strong>: few democratic institutions and little democratic culture</li></ul>
 </div>
 </div>
